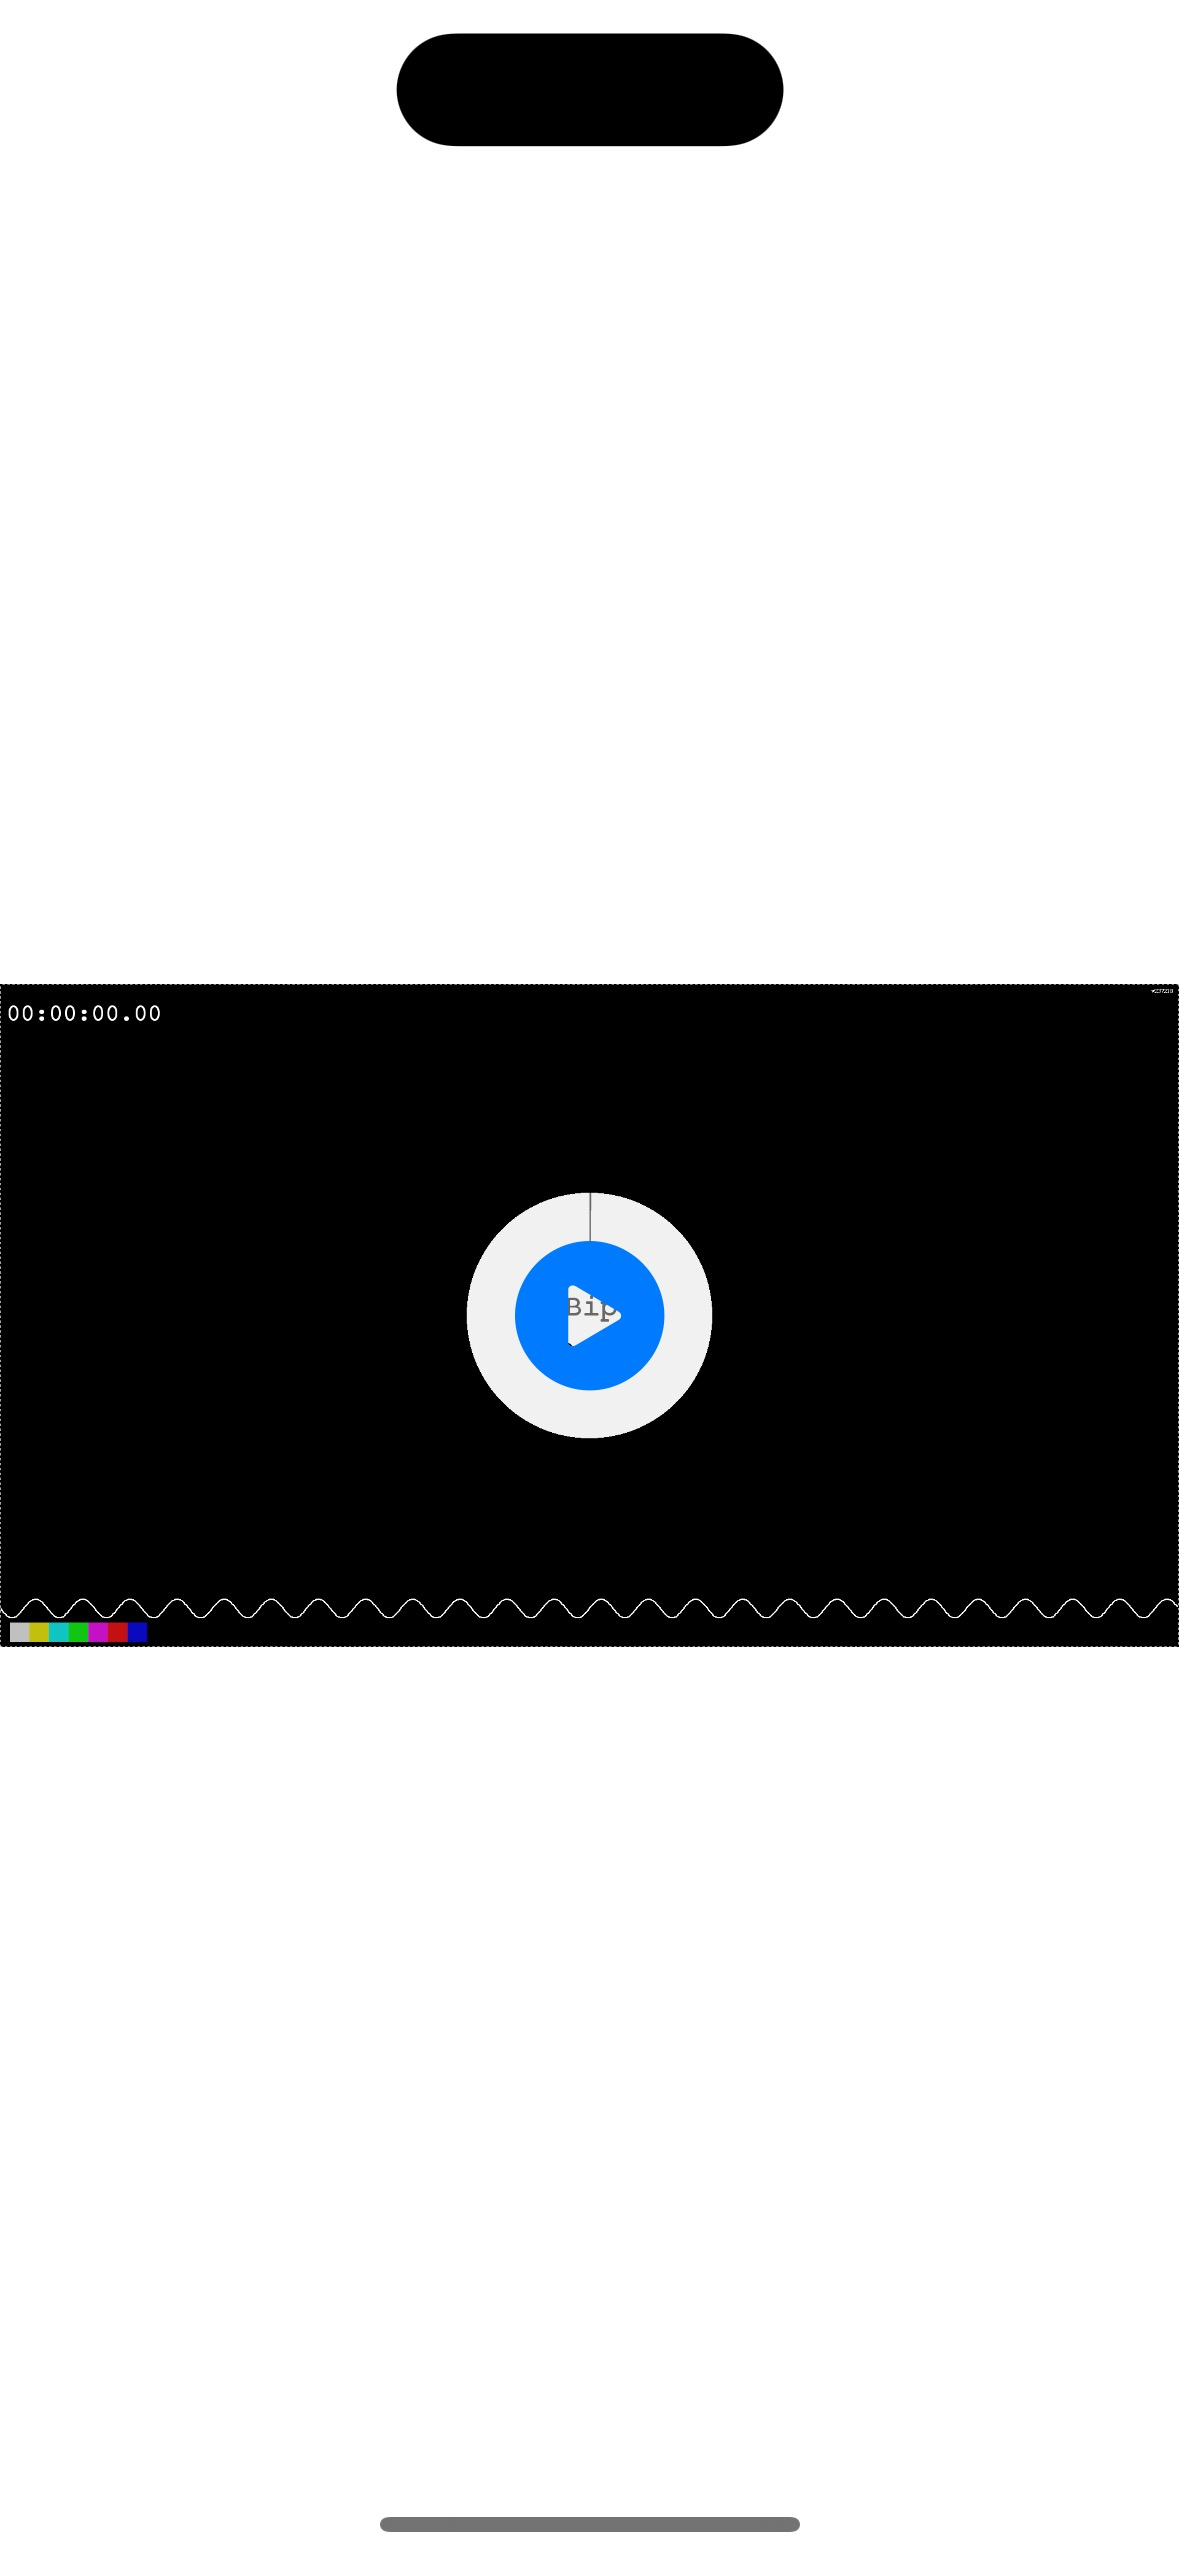
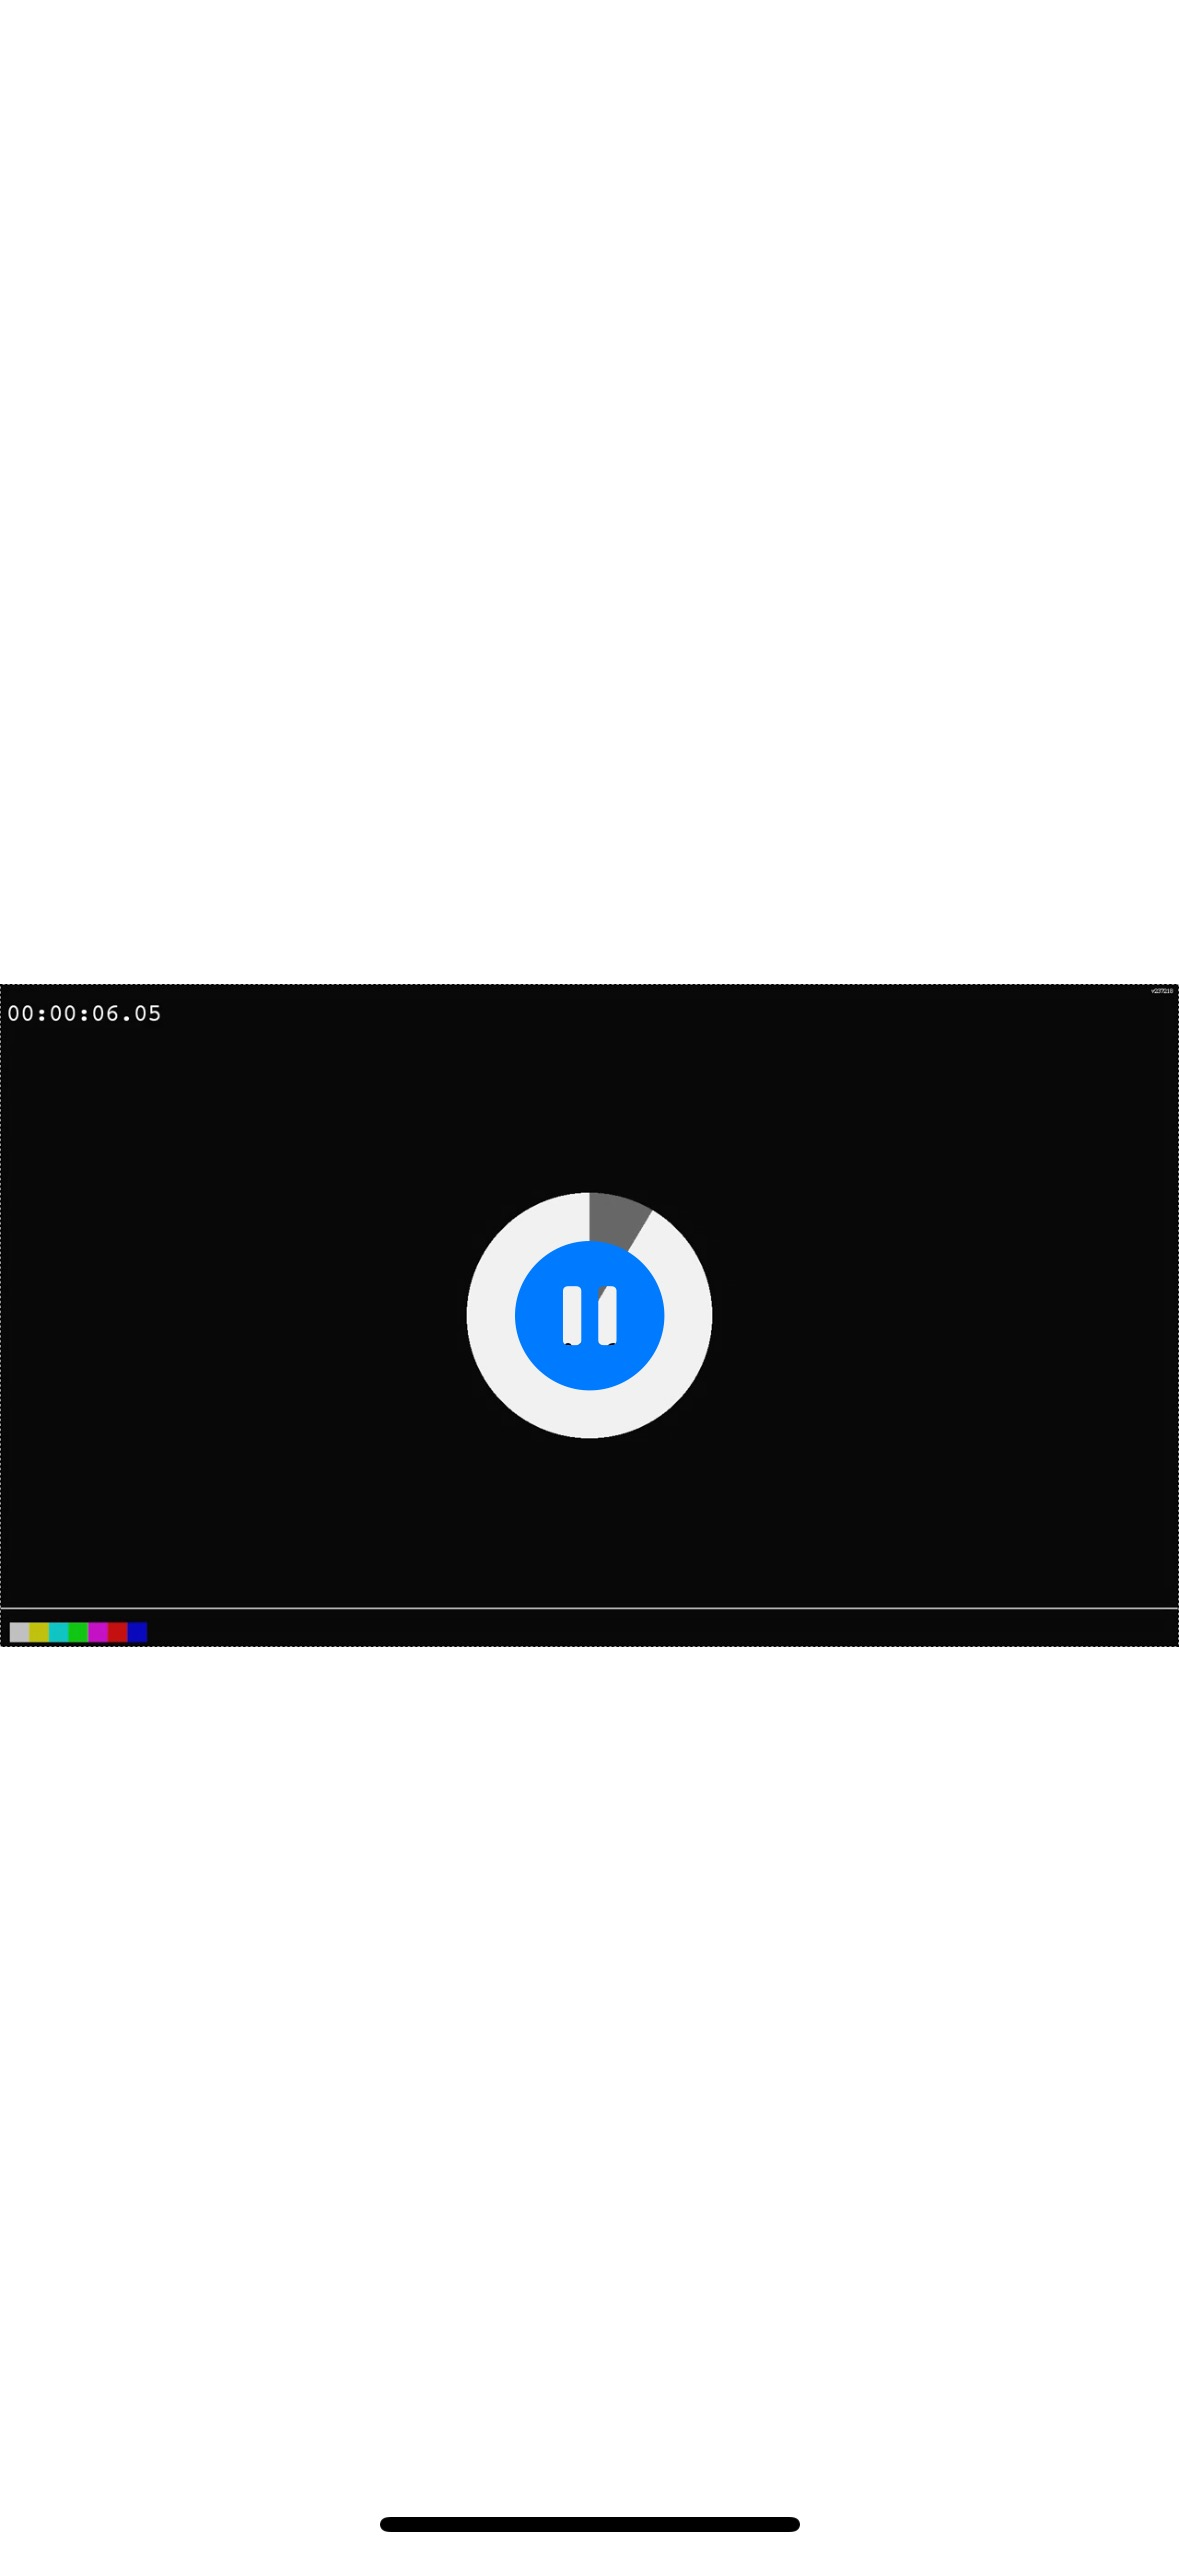
Update section 1

Changed region(s): [[0.3359, 0.9581, 0.6718, 1.0], [0.3359, 0.0, 0.6718, 0.0618], [0.458, 0.4636, 0.5496, 0.5254]]

diff --git a/Sources/Player/Player.docc/Resources/Sources/basic-ui-tutorial/basic-ui-tutorial-6.swift b/Sources/Player/Player.docc/Resources/Sources/basic-ui-tutorial/basic-ui-tutorial-6.swift
@@ -2,19 +2,19 @@ import Player
 import SwiftUI
 
 struct ContentView: View {
-    private let url = URL(string: "https://devstreaming-cdn.apple.com/videos/streaming/examples/img_bipbop_adv_example_ts/master.m3u8")!
-    @StateObject private var player = Player(item: .simple(url: url))
-    @State private var state: PlaybackState = .idle
+    @StateObject private var player = Player(
+        item: .simple(url: URL(string: "https://devstreaming-cdn.apple.com/videos/streaming/examples/img_bipbop_adv_example_ts/master.m3u8")!)
+    )
 
     var body: some View {
         ZStack {
             VideoView(player: player)
             Button(action: player.togglePlayPause) {
-                Image(systemName: "play.circle.fill")
+                Image(systemName: player.playbackState == .playing ? "pause.circle.fill" : "play.circle.fill")
                     .resizable()
-                    .frame(width: 50, height: 50)
+                    .aspectRatio(contentMode: .fit)
+                    .frame(width: 50)
             }
         }
-        .onReceive(player: player, assign: \.playbackState, to: $state)
     }
 }

diff --git a/Sources/Player/Player.docc/Resources/Sources/basic-ui-tutorial/basic-ui-tutorial-5.swift b/Sources/Player/Player.docc/Resources/Sources/basic-ui-tutorial/basic-ui-tutorial-5.swift
@@ -2,8 +2,9 @@ import Player
 import SwiftUI
 
 struct ContentView: View {
-    private let url = URL(string: "https://devstreaming-cdn.apple.com/videos/streaming/examples/img_bipbop_adv_example_ts/master.m3u8")!
-    @StateObject private var player = Player(item: .simple(url: url))
+    @StateObject private var player = Player(
+        item: .simple(url: URL(string: "https://devstreaming-cdn.apple.com/videos/streaming/examples/img_bipbop_adv_example_ts/master.m3u8")!)
+    )
 
     var body: some View {
         ZStack {
@@ -11,7 +12,8 @@ struct ContentView: View {
             Button(action: player.togglePlayPause) {
                 Image(systemName: "play.circle.fill")
                     .resizable()
-                    .frame(width: 50, height: 50)
+                    .aspectRatio(contentMode: .fit)
+                    .frame(width: 50)
             }
         }
     }

diff --git a/Sources/Player/Player.docc/Resources/Sources/basic-ui-tutorial/basic-ui-tutorial-3.swift b/Sources/Player/Player.docc/Resources/Sources/basic-ui-tutorial/basic-ui-tutorial-3.swift
@@ -2,8 +2,9 @@ import Player
 import SwiftUI
 
 struct ContentView: View {
-    private let url = URL(string: "https://devstreaming-cdn.apple.com/videos/streaming/examples/img_bipbop_adv_example_ts/master.m3u8")!
-    @StateObject private var player = Player(item: .simple(url: url))
+    @StateObject private var player = Player(
+        item: .simple(url: URL(string: "https://devstreaming-cdn.apple.com/videos/streaming/examples/img_bipbop_adv_example_ts/master.m3u8")!)
+    )
 
     var body: some View {
         ZStack {

diff --git a/Sources/Player/Player.docc/Resources/Sources/basic-ui-tutorial/basic-ui-tutorial-4.swift b/Sources/Player/Player.docc/Resources/Sources/basic-ui-tutorial/basic-ui-tutorial-4.swift
@@ -2,8 +2,9 @@ import Player
 import SwiftUI
 
 struct ContentView: View {
-    private let url = URL(string: "https://devstreaming-cdn.apple.com/videos/streaming/examples/img_bipbop_adv_example_ts/master.m3u8")!
-    @StateObject private var player = Player(item: .simple(url: url))
+    @StateObject private var player = Player(
+        item: .simple(url: URL(string: "https://devstreaming-cdn.apple.com/videos/streaming/examples/img_bipbop_adv_example_ts/master.m3u8")!)
+    )
 
     var body: some View {
         ZStack {
